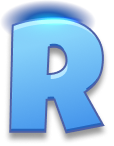
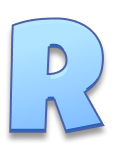
fix

diff --git a/Assets/Scripts/Modules/Gameplay/CharacterModule/Scripts/CharacterWindow/ViewModel/CharacterWindowViewModel.cs b/Assets/Scripts/Modules/Gameplay/CharacterModule/Scripts/CharacterWindow/ViewModel/CharacterWindowViewModel.cs
@@ -16,6 +16,8 @@ namespace vikwhite
         public Sprite Image;
         public UnityAction OnUpgradeLevel;
         public int LevelUpPrice;
+        public RarityType Rarity;
+        public Sprite ClassIcon;
         public StarsViewModel Stars { get; }
         
         public CharacterWindowViewModel(Character character, IConfigs configs, IResourceService resource) : base(character)
@@ -27,6 +29,8 @@ namespace vikwhite
             LevelUpPrice = configs.Settings.LevelUpPrice;
             var config = configs.Characters.Get(character.ID);
             Image = config.Image;
+            Rarity = config.Rarity;
+            ClassIcon = configs.UI.ClassIcons[character.Config.Class];
             Stars = CreateViewModel<StarsViewModel, IReadOnlyReactiveProperty<int>>(character.Stars);
             ExpResources = CreateViewModel<ResourceViewModel, Resource>(resource.Get(ResourceType.Exp));
             OnUpgradeLevel = LevelUpgrade;

diff --git a/Assets/Scripts/Modules/Gameplay/CharacterModule/Scripts/CharacterWindow/View/CharacterWindowView.cs b/Assets/Scripts/Modules/Gameplay/CharacterModule/Scripts/CharacterWindow/View/CharacterWindowView.cs
@@ -15,7 +15,11 @@ namespace vikwhite
             CreateView<StarsView, StarsHierarchy>(_view.Stars).Initialize(viewModel.Stars);
             _view.Name.text = viewModel.Name;
             _view.Image.sprite = viewModel.Image;
+            _view.ClassIcon.sprite = viewModel.ClassIcon;
             SetLevelUpPrice();
+            _view.R.gameObject.SetActive(viewModel.Rarity == RarityType.Rare);
+            _view.SR.gameObject.SetActive(viewModel.Rarity == RarityType.Epic);
+            _view.SSR.gameObject.SetActive(viewModel.Rarity == RarityType.Legendary);
         }
 
         private void SetLevelUpPrice() => _view.LevelUpPrice.text = $"{ViewModel.ExpResources.Amount}/{ViewModel.LevelUpPrice}";

diff --git a/Assets/Scripts/Modules/Gameplay/MetaModule/Scripts/MetaWindow/ViewModel/MetaItemViewModel.cs b/Assets/Scripts/Modules/Gameplay/MetaModule/Scripts/MetaWindow/ViewModel/MetaItemViewModel.cs
@@ -20,10 +20,7 @@ namespace vikwhite
             Level = character.Level;
             Stars = CreateViewModel<StarsViewModel, IReadOnlyReactiveProperty<int>>(character.Stars);
             ImagePrefab = character.Config.HeadPrefab;
-            
-            configs.UI.ClassIcons.TryGetValue(character.Config.Class, out var classIcon);
-            ClassIcon = classIcon;
-            
+            ClassIcon = configs.UI.ClassIcons[character.Config.Class];
             configs.UI.Rarities.TryGetValue(character.Config.Rarity, out var rarity);
             RarityBackground = rarity.MetaBG;
         }

diff --git a/Assets/Scripts/Modules/Gameplay/CharacterModule/Scripts/CharacterWindow/Hierarchy/CharacterHierarchy.cs b/Assets/Scripts/Modules/Gameplay/CharacterModule/Scripts/CharacterWindow/Hierarchy/CharacterHierarchy.cs
@@ -12,6 +12,10 @@ namespace vikwhite
         public Button LevelUpButton;
         public Button CloseButton;
         public Image Image;
+        public Image ClassIcon;
         public StarsHierarchy Stars;
+        public GameObject R;
+        public GameObject SR;
+        public GameObject SSR;
     }
 }

diff --git a/Assets/Scripts/Modules/Core/ConfigModule/Scripts/Data/RarityUIData.cs b/Assets/Scripts/Modules/Core/ConfigModule/Scripts/Data/RarityUIData.cs
@@ -9,5 +9,6 @@ namespace vikwhite
         public RarityType Type;
         public Sprite RewardBG;
         public Sprite MetaBG;
+        public Sprite Letter;
     }
 }
